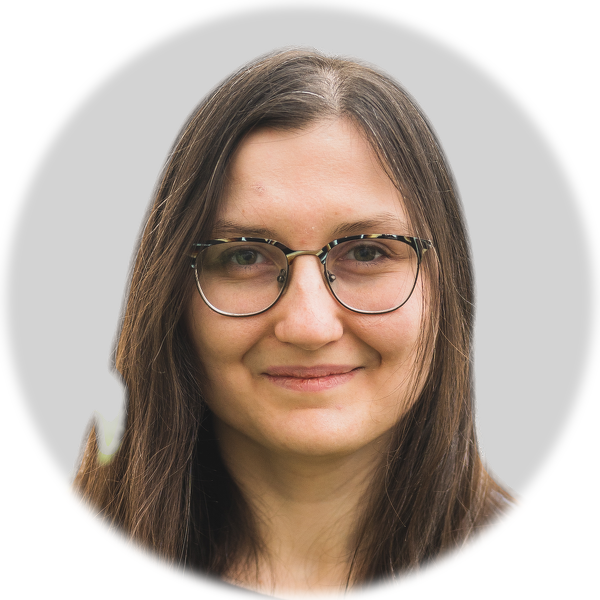
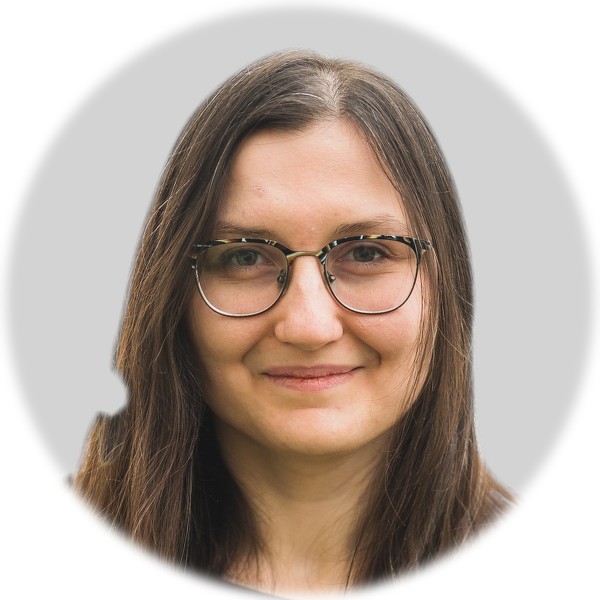
Fill the gap in Marie's hair rather than leave the leaf in it
Her photo is taken in a greenhouse. A strand of hair has fallen away from the
main mass on her left, and through the gap between them you can see a blurred
leaf and some bright glass. rembg reads that gap as part of her -- hair encloses
it on every side -- so the leaf survived into the finished disc as a pale green
wedge, which is what the previous commit settled for.

Painting the leaf out of the hair is not enough and makes it worse. The wedge is
not really a colour problem: the matte keeps whatever is in that gap, so
removing the green only leaves the bright glasshouse behind it, and that comes
out a khaki wedge instead of a green one. Removing the whole plant from the
frame is worse again, because Telea then smears background into the gap and the
matte keeps that. The gap has to be filled, not recoloured.

So it is filled with hair borrowed from further into the same strands, at the
tone of the hair ringing the gap rather than the tone where the texture came
from, which sits deeper in and reads darker. 0.23% of the photo is touched, all
of it inside the gap, and the script asserts the edit does not escape it.

scripts/retouch_hair_gap.py is that edit written down rather than done by hand,
so it can be undone, redone or argued with. photos/originals/marie_kratka.jpg
stays exactly as supplied and portraits.toml now names the retouched copy as her
source, with the untouched one as its origin -- the photo nobody has edited is
the thing that cannot be got back.
[…]

diff --git a/scripts/retouch_hair_gap.py b/scripts/retouch_hair_gap.py
@@ -1,0 +1,120 @@
+"""Fill the gap in Marie Kratka's hair where the greenhouse shows through.
+
+Her photo was taken in a greenhouse. A strand of hair has fallen away from the
+main mass on her left, and through the gap between them you can see a blurred
+leaf and some bright glass. rembg reads that gap as part of her -- it is
+enclosed by hair on every side -- so the leaf survives into the finished
+portrait as a pale green wedge sitting in her hair, which no choice of matte
+model avoids: the leaf is in front of her, not behind.
+
+This fills the gap with hair borrowed from further into the same strands, which
+is what it would have looked like had the strand fallen a centimetre to the
+left. Only pixels the matte already calls "subject", and that are not
+hair-coloured, are touched; the leaf keeps its place in the photograph
+everywhere else, and everything outside the gap is left byte-for-byte alone.
+
+Run from the top of the repository, through the script environment so that
+rembg and OpenCV are on the path:
+
+    ./scripts/make-portraits --python scripts/retouch_hair_gap.py   # if wired up
+    scripts/.venv/bin/python scripts/retouch_hair_gap.py
+
+It writes photos/originals/marie_kratka-retouched.jpg, which is what
+portraits.toml names as her source. The photo as it was supplied stays at
+photos/originals/marie_kratka.jpg and is not modified.
+"""
+
+from pathlib import Path
+
+import cv2
+import numpy as np
+from PIL import Image
+
+import portraits
+
+SOURCE = Path("photos/originals/marie_kratka.jpg")
+TARGET = Path("photos/originals/marie_kratka-retouched.jpg")
+
+# The left of her hair, comfortably around the gap and clear of her face.
+ROI = (1020, 1520, 1250, 2100)  # x0, x1, y0, y1
+# Hair strands here run close to vertical, so hair from the same rows this much
+# further into the mass carries the right direction and the right tone.
+BORROW = 150
+MIN_AREA = 1000  # ignore specks: highlights on hair that is really there
+CLOSE, DILATE, FEATHER, ROUNDS = 15, 25, 31, 3
+QUALITY = 95
+
+
+def hair_test(rgb: np.ndarray) -> tuple[np.ndarray, np.ndarray]:
+    """Split a tile into hair and not-hair.
+
+    Her hair is warm -- red well above blue. The leaf is green, and the
+    glasshouse seen through the gap is bright and neutral. Neither is hair.
+    """
+    v = rgb.astype(np.int16)
+    red, green, blue = v[..., 0], v[..., 1], v[..., 2]
+    luminance = (red + green + blue) / 3
+    not_hair = (green > np.maximum(red, blue)) | ((luminance > 150) & (red - blue < 30))
+    return ~not_hair, not_hair
+
+
+def main() -> None:
+    photo = portraits.load_photo(SOURCE)
+    image = np.array(photo.convert("RGB"))
+    # The same matte the portrait itself is cut with, so "inside" here means
+    # exactly what it will mean when the portrait is made.
+    alpha = np.array(portraits.cut_out_person(photo).split()[-1])
+
+    x0, x1, y0, y1 = ROI
+    inside = alpha[y0:y1, x0:x1] > 0
+    work = image[y0:y1, x0:x1].astype(np.float32)
+
+    for round_no in range(1, ROUNDS + 1):
+        current = work.round().astype(np.uint8)
+        hairlike, not_hair = hair_test(current)
+        mask = (inside & not_hair).astype(np.uint8)
+        mask = cv2.morphologyEx(mask, cv2.MORPH_CLOSE, np.ones((CLOSE, CLOSE), np.uint8))
+
+        count, labels, stats, _ = cv2.connectedComponentsWithStats(mask, 8)
+        kept = np.zeros_like(mask)
+        blobs = 0
+        for index in range(1, count):
+            if stats[index, 4] >= MIN_AREA:
+                kept[labels == index] = 1
+                blobs += 1
+        if not blobs:
+            print(f"round {round_no}: nothing left to fill")
+            break
+        mask = cv2.dilate(kept, np.ones((DILATE, DILATE), np.uint8))
+
+        # Tone comes from the hair ringing the gap, not from the hair the
+        # texture was borrowed from, which sits deeper in and reads darker.
+        ring = cv2.dilate(mask, np.ones((81, 81), np.uint8)) & (1 - mask)
+        reference = ring.astype(bool) & hairlike & inside
+        patch = image[y0:y1, x0 + BORROW : x1 + BORROW].astype(np.float32)
+        gain = current[reference].mean(axis=0) / np.clip(
+            patch[mask.astype(bool)].mean(axis=0), 1, None
+        )
+        patch = np.clip(patch * gain, 0, 255)
+
+        feather = cv2.GaussianBlur(
+            mask.astype(np.float32) * 255, (FEATHER, FEATHER), 0
+        )[..., None] / 255.0
+        work = work * (1 - feather) + patch * feather
+        print(f"round {round_no}: {blobs} blob(s), {int(mask.sum())} px, gain {gain.round(3)}")
+
+    out = image.copy()
+    out[y0:y1, x0:x1] = work.round().astype(np.uint8)
+
+    changed = (out != image).any(axis=2)
+    outside = np.ones(image.shape[:2], bool)
+    outside[y0:y1, x0:x1] = False
+    assert not changed[outside].any(), "the edit escaped its region"
+    print(f"changed {int(changed.sum())} px = {100 * changed.mean():.3f}% of the photo")
+
+    Image.fromarray(out).save(TARGET, "JPEG", quality=QUALITY, subsampling=0)
+    print("wrote", TARGET)
+
+
+if __name__ == "__main__":
+    main()

diff --git a/scripts/README.md b/scripts/README.md
@@ -133,7 +133,13 @@ They are committed on purpose: a portrait you cannot remake is a portrait you
 can only lose, and the workspace these were recovered from is not in the
 repository and has already been partly lost once.
 
-**Not everyone has one.** Fourteen members do. For the other twenty-four the
+A photo that needed retouching keeps both files: the one as it was supplied, and
+a `-retouched` copy beside it, which is the one `source` names. The photo nobody
+has edited is the thing you cannot get back, so it stays. Marie Kratka is the
+one such case so far, and `retouch_hair_gap.py` is the edit, written down rather
+than done by hand so that it can be undone or redone.
+
+**Not everyone has one.** Sixteen members do. For the other twenty-four the
 committed PNG in `static/img/member/` is the only copy in existence — there is
 no original to go back to. Treat those as originals in their own right: do not
 run them through the script hoping to improve them, because a bad matte or a
